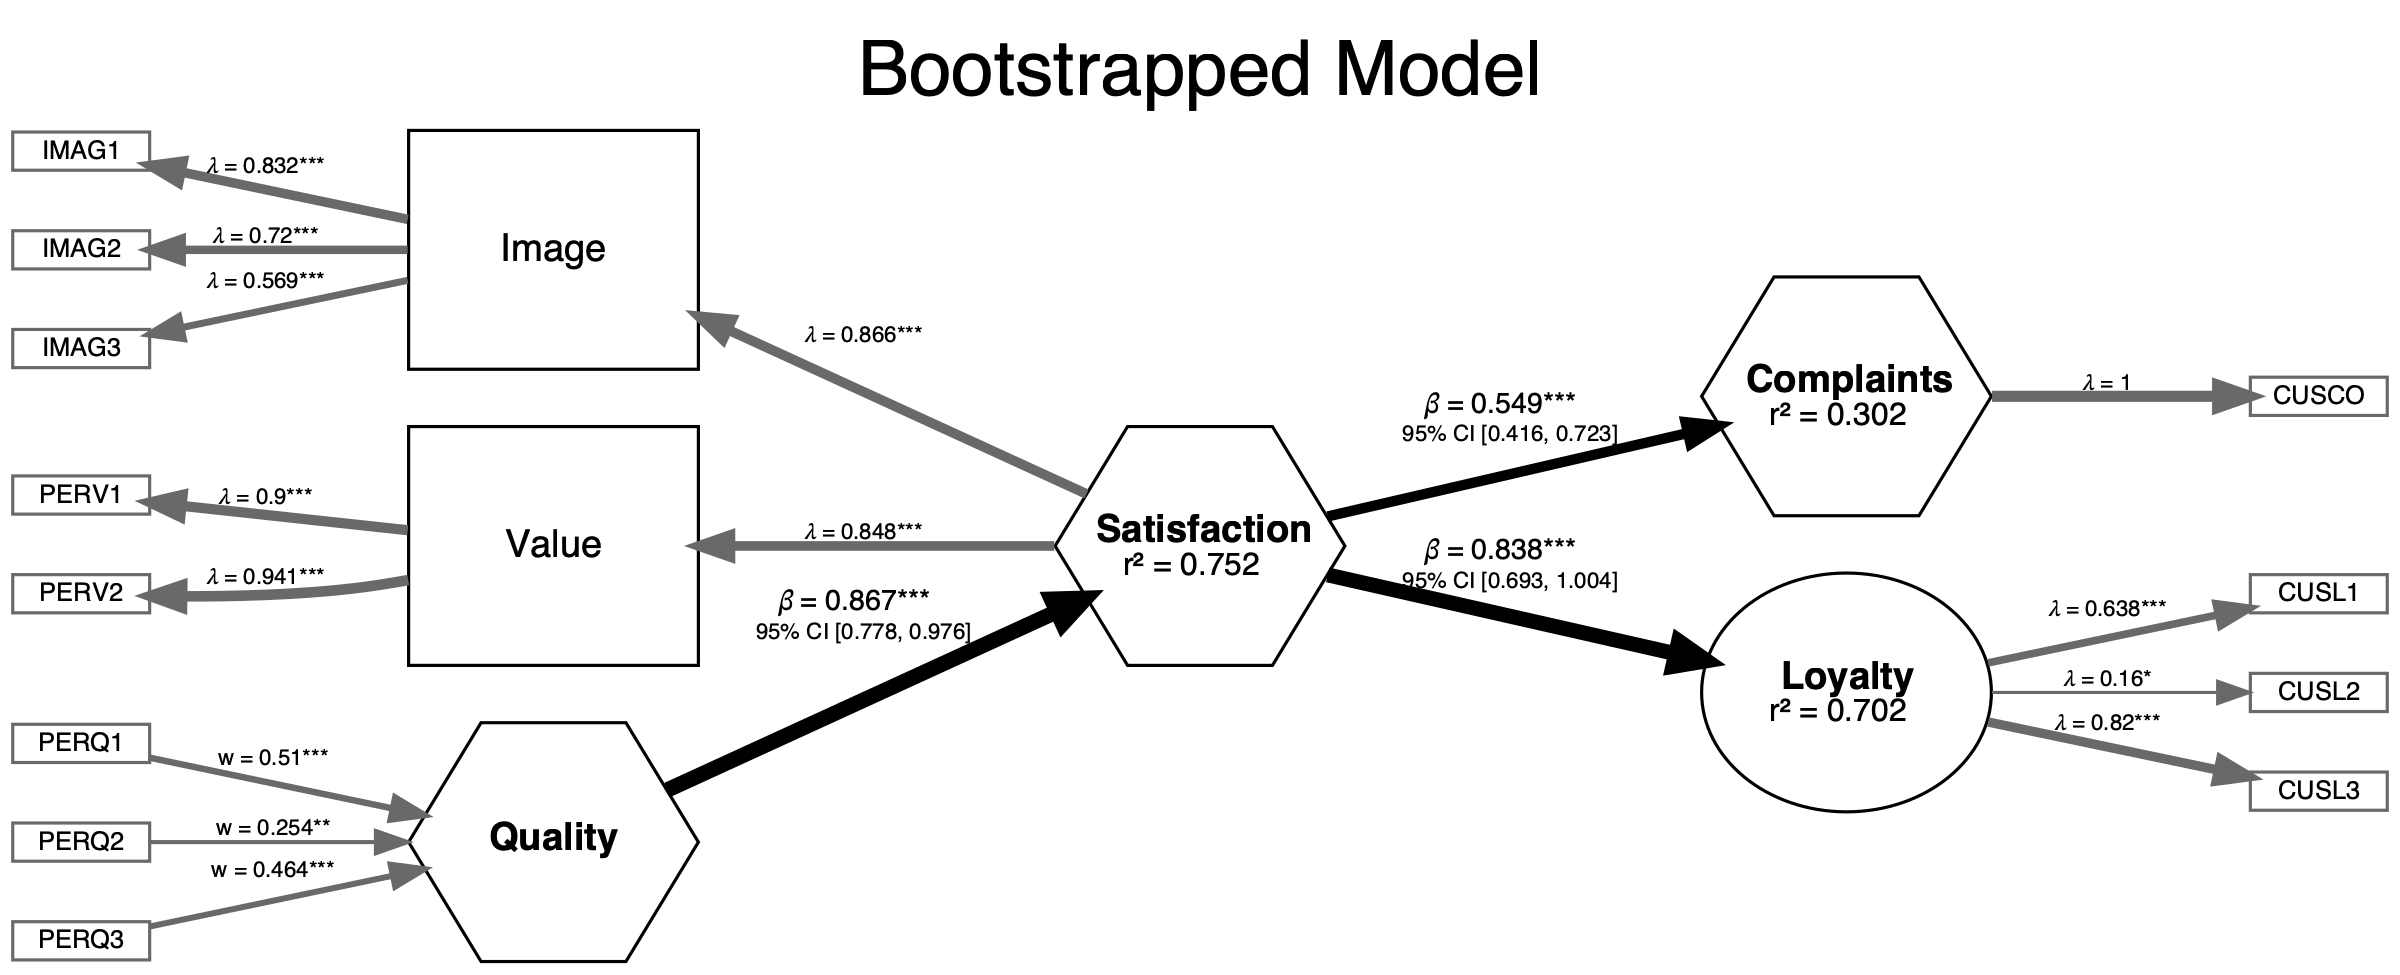
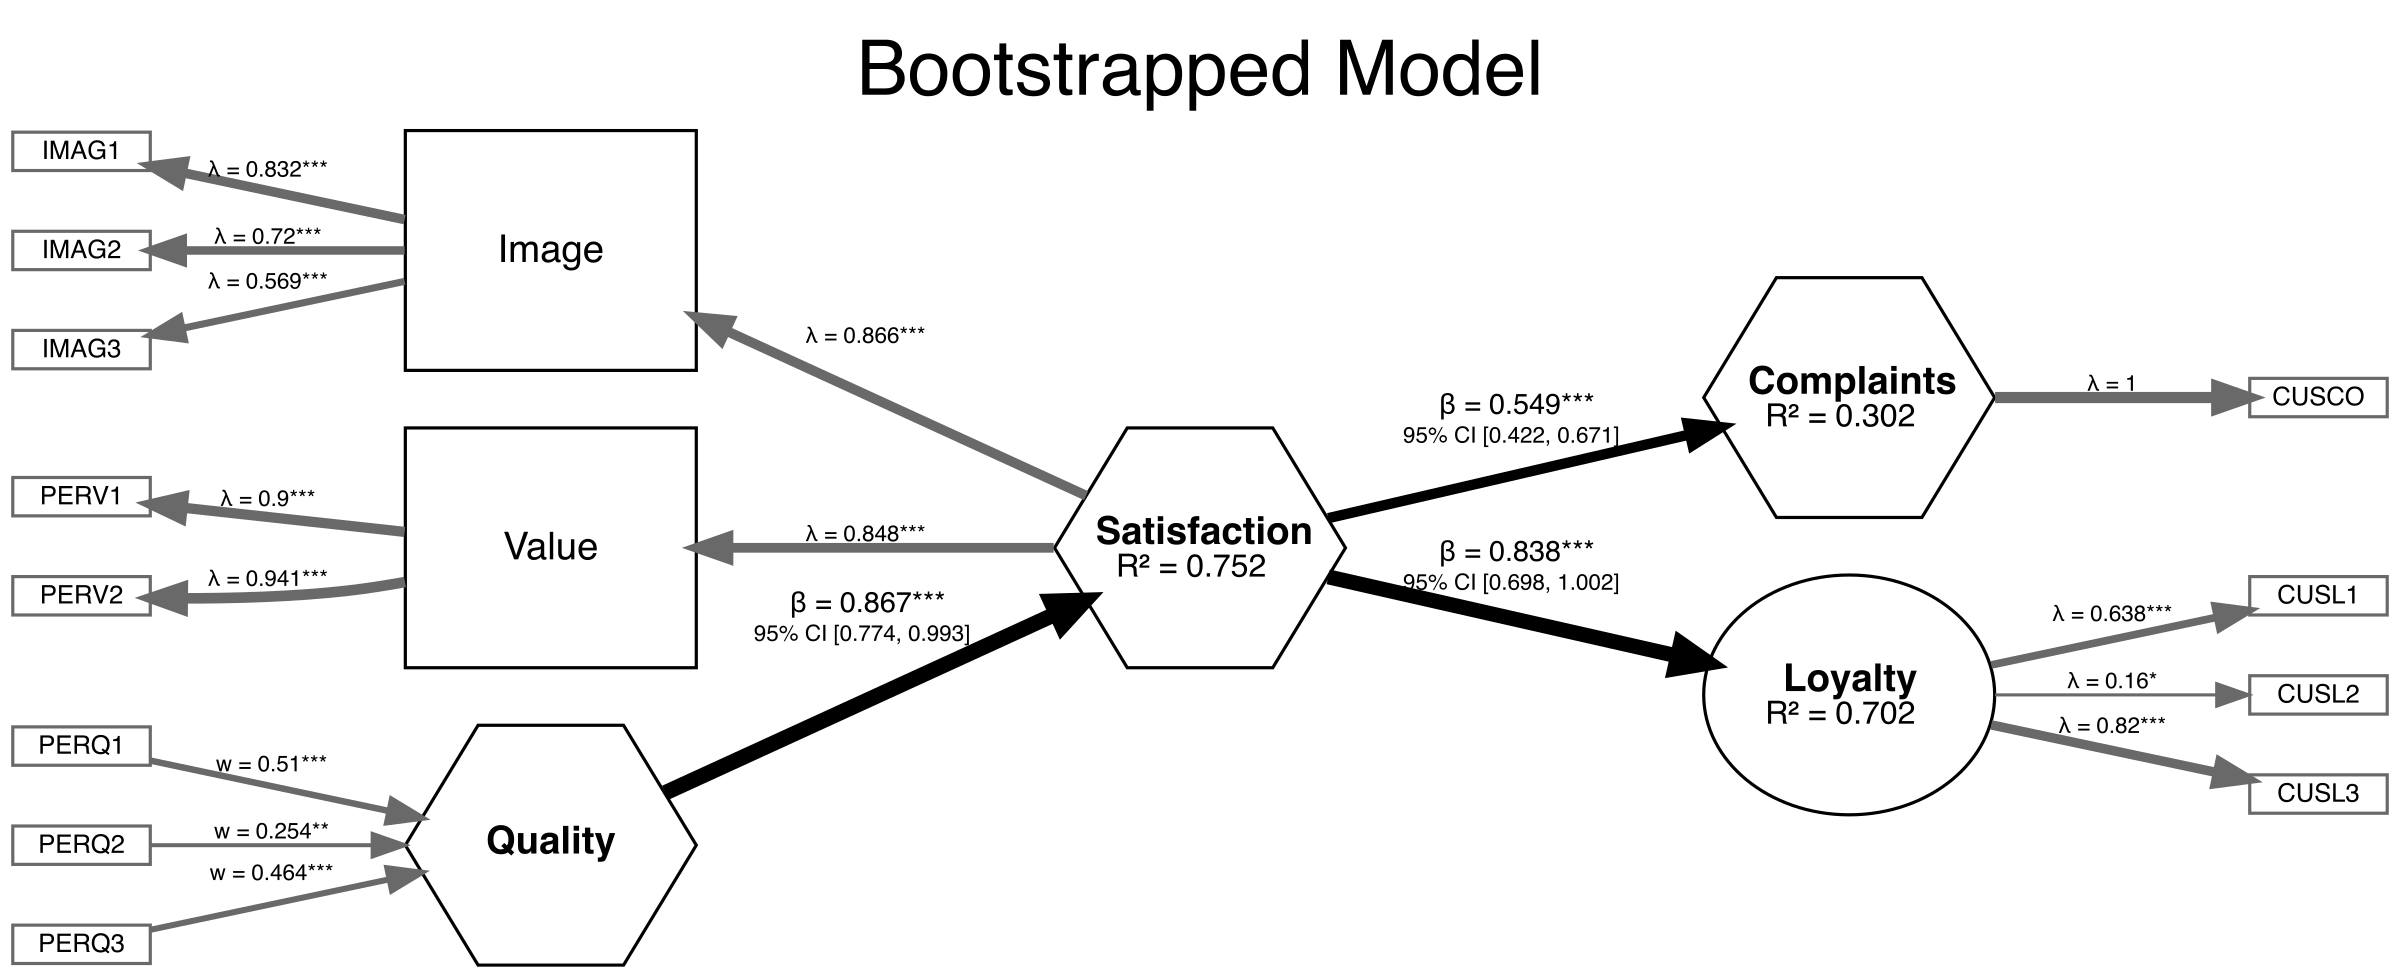
chore: add NEWS.md and rebuild README for 2.4.1 release
- Created NEWS.md documenting patch fixes
- Rebuilt README.md from README.Rmd (updated figures)
- Updated release planning document through step 6

diff --git a/CLAUDE.release-2.4.1.md b/CLAUDE.release-2.4.1.md
@@ -5,10 +5,10 @@ release_type: patch
 ## Submit
 - [x] 1. Create GitHub release issue
 - [x] 2. Confirm branch and starting state
-- [ ] 3. Update dependencies
-- [ ] 4. Polish NEWS.md
-- [ ] 5. Check URLs
-- [ ] 6. Rebuild README
+- [x] 3. Update dependencies
+- [x] 4. Polish NEWS.md
+- [x] 5. Check URLs
+- [x] 6. Rebuild README
 - [ ] 7. Run local R CMD check
 - [ ] 8. Run win-devel check
 - [ ] 9. Run mac check (optional)
@@ -28,3 +28,4 @@ release_type: patch
 
 ## Notes
 - GitHub release issue: https://github.com/sem-in-r/seminr/issues/392
+- URL check: 2 DOI links return 403 (publisher blocks automated requests) — false positives, safe to ignore

diff --git a/NEWS.md b/NEWS.md
@@ -1,0 +1,14 @@
+# seminr 2.4.1
+
+### Fixed
+* PLSpredict now works correctly with non-standard (character) rownames (#390)
+* Plot symbols use BMP-compatible Greek letters for cross-platform rendering (#226)
+* Plot displays capital R² for coefficient of determination (#389)
+* Summary reports now work correctly for PLS-SEM models with higher-order constructs (#369)
+* `vif_items()` always returns a named list structure (#377)
+
+### Changed
+* Modernized GitHub Actions CI workflow for Ubuntu 24.04
+
+# seminr 2.4.0
+* (See previous CRAN release notes)

diff --git a/README.md b/README.md
@@ -1,7 +1,7 @@
 
 <!-- README.md is generated from README.Rmd. Please edit that file -->
 
-<img src="vignettes/SEMinR_logo.jpg" width="25%" />
+<img src="vignettes/SEMinR_logo.jpg" alt="" width="25%" />
 
 <!-- ![Build Status](https://travis-ci.org/sem-in-r/seminr.svg?branch=master) -->
 
